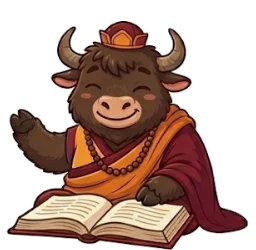
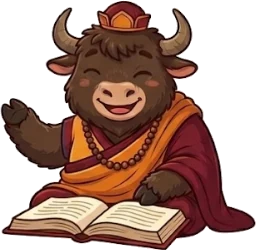
Yak Tashi: the same corner on the phone, a blink that keeps his size
The blink pose on the sprite sheet is drawn a little smaller than the
smiling one, so the figure visibly shrank for the 120 ms of a blink. The
blink frame is now the smiling body with only the closed eyes blended in.
On a phone he sits bottom-right like on the desktop, the bubble above him.

diff --git a/site/styles.css b/site/styles.css
@@ -462,10 +462,10 @@ details.set[open] summary { background: var(--topbar); }
 .tashi-bubble.show { animation: rise .2s ease-out; }
 html.tashi-on .page { padding-bottom: 150px; }
 @media (max-width: 1180px) { .tashi { width: 88px; right: 10px; bottom: 10px; } } /* narrower than the content column plus two yaks: a smaller yak */
-@media (max-width: 640px) {
-  .tashi { right: auto; left: 8px; bottom: 8px; width: 64px; }
-  .tashi-bubble { right: auto; left: 0; bottom: calc(100% + 10px); max-width: min(260px, calc(100vw - 24px)); font-size: .85rem; }
-  .tashi-bubble::after { right: auto; left: 20px; bottom: -8px; border-top: 0; border-bottom: 1.5px solid var(--gold-line); }
+@media (max-width: 640px) { /* the phone: the same corner, a smaller yak, the bubble above him */
+  .tashi { right: 8px; bottom: 8px; width: 64px; }
+  .tashi-bubble { right: 0; bottom: calc(100% + 10px); max-width: min(260px, calc(100vw - 24px)); font-size: .85rem; }
+  .tashi-bubble::after { right: 20px; bottom: -8px; border-top: 0; border-bottom: 1.5px solid var(--gold-line); }
   html.tashi-on .page { padding-bottom: 96px; }
 }
 @media (prefers-reduced-motion: reduce) {
